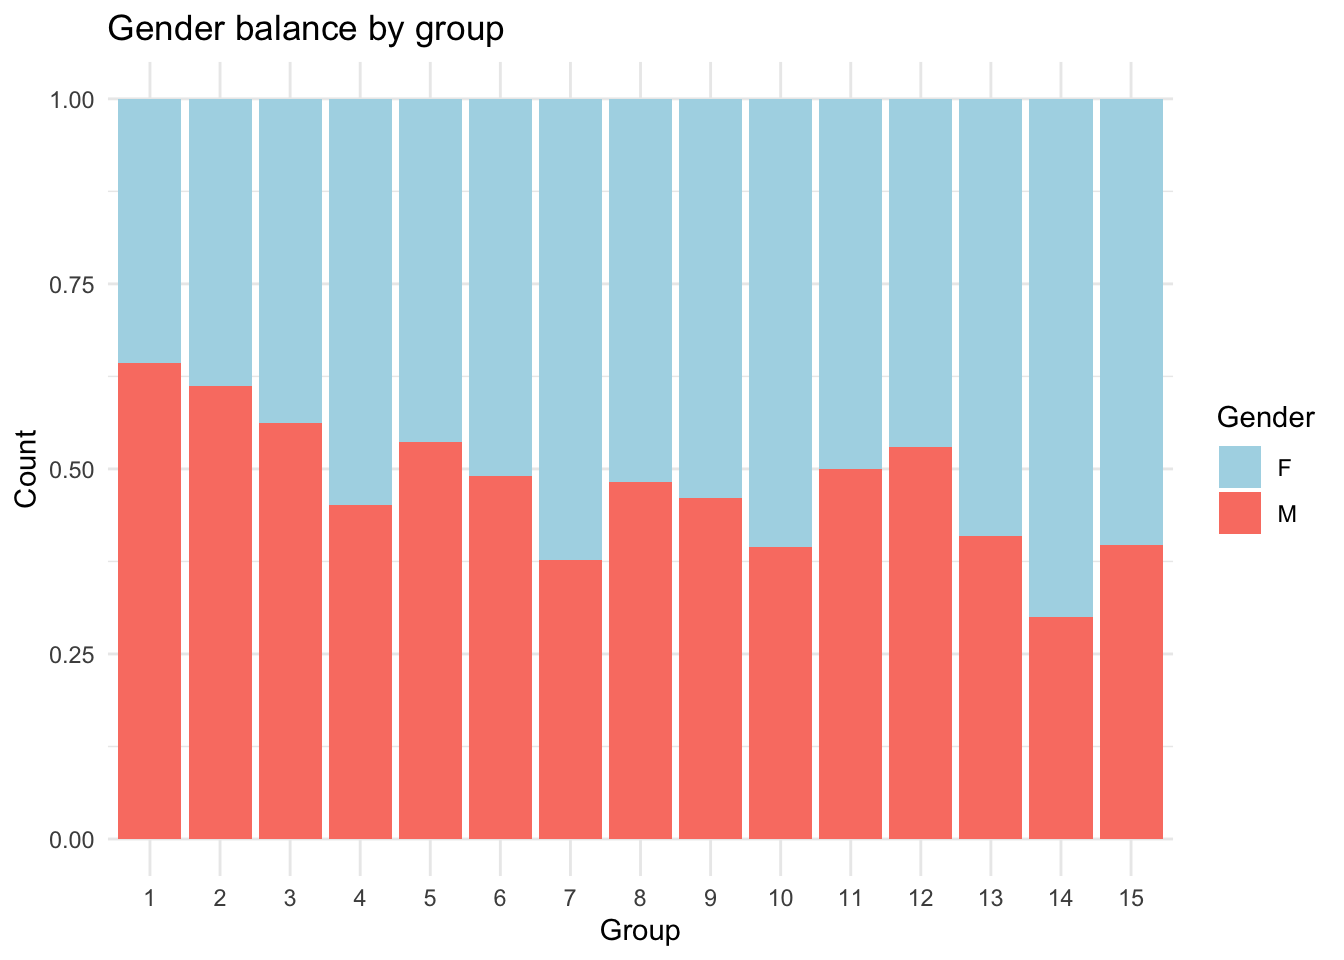
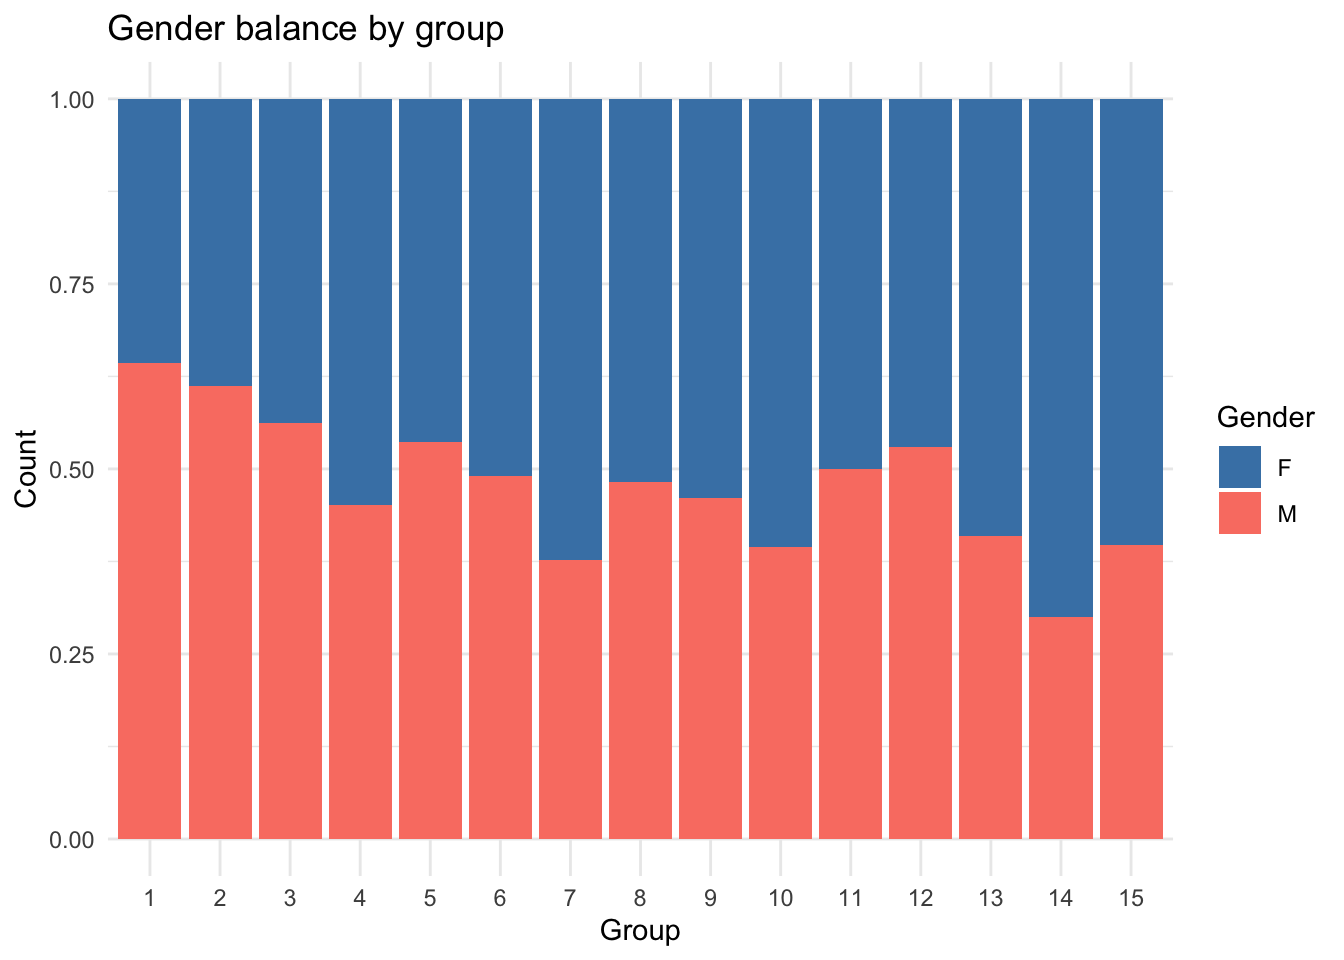
10:22

Changed region(s): [[0.0625, 0.0938, 0.875, 0.6562], [0.9062, 0.4375, 0.9375, 0.5312]]

diff --git a/mazere.html b/mazere.html
@@ -313,7 +313,7 @@ pre > code.sourceCode > span > a:first-child::before { text-decoration: underlin
 <span id="cb8-2"><a href="#cb8-2" aria-hidden="true" tabindex="-1"></a>  <span class="fu">count</span>(group, sex) <span class="sc">|&gt;</span></span>
 <span id="cb8-3"><a href="#cb8-3" aria-hidden="true" tabindex="-1"></a>  <span class="fu">ggplot</span>(<span class="fu">aes</span>(<span class="at">x =</span> group, <span class="at">y =</span> n, <span class="at">fill =</span> sex)) <span class="sc">+</span></span>
 <span id="cb8-4"><a href="#cb8-4" aria-hidden="true" tabindex="-1"></a>  <span class="fu">geom_col</span>(<span class="at">position =</span> <span class="st">"fill"</span>) <span class="sc">+</span></span>
-<span id="cb8-5"><a href="#cb8-5" aria-hidden="true" tabindex="-1"></a>  <span class="fu">scale_fill_manual</span>(<span class="at">values =</span> <span class="fu">c</span>(<span class="st">"lightblue"</span>, <span class="st">"salmon"</span>)) <span class="sc">+</span></span>
+<span id="cb8-5"><a href="#cb8-5" aria-hidden="true" tabindex="-1"></a>  <span class="fu">scale_fill_manual</span>(<span class="at">values =</span> <span class="fu">c</span>(<span class="st">"steelblue"</span>, <span class="st">"salmon"</span>)) <span class="sc">+</span></span>
 <span id="cb8-6"><a href="#cb8-6" aria-hidden="true" tabindex="-1"></a>  <span class="fu">labs</span>(<span class="at">title =</span> <span class="st">"Gender balance by group"</span>,</span>
 <span id="cb8-7"><a href="#cb8-7" aria-hidden="true" tabindex="-1"></a>    <span class="at">x =</span> <span class="st">"Group"</span>, <span class="at">y =</span> <span class="st">"Count"</span>, <span class="at">fill =</span> <span class="st">"Gender"</span>) <span class="sc">+</span></span>
 <span id="cb8-8"><a href="#cb8-8" aria-hidden="true" tabindex="-1"></a>  <span class="fu">theme_minimal</span>()</span></code></pre></div><button title="Copy to Clipboard" class="code-copy-button"><i class="bi"></i></button></div>
@@ -642,64 +642,64 @@ pre > code.sourceCode > span > a:first-child::before { text-decoration: underlin
 </thead>
 <tbody>
 <tr class="odd">
-<td style="text-align: right;">138</td>
-<td style="text-align: left;">13</td>
-<td style="text-align: left;">M</td>
-<td style="text-align: right;">62</td>
-</tr>
-<tr class="even">
-<td style="text-align: right;">105</td>
-<td style="text-align: left;">2</td>
-<td style="text-align: left;">M</td>
-<td style="text-align: right;">63</td>
-</tr>
-<tr class="odd">
-<td style="text-align: right;">328</td>
-<td style="text-align: left;">9</td>
-<td style="text-align: left;">F</td>
-<td style="text-align: right;">62</td>
-</tr>
-<tr class="even">
-<td style="text-align: right;">420</td>
-<td style="text-align: left;">10</td>
-<td style="text-align: left;">M</td>
-<td style="text-align: right;">63</td>
-</tr>
-<tr class="odd">
-<td style="text-align: right;">529</td>
-<td style="text-align: left;">11</td>
-<td style="text-align: left;">F</td>
-<td style="text-align: right;">62</td>
-</tr>
-<tr class="even">
-<td style="text-align: right;">44</td>
-<td style="text-align: left;">4</td>
-<td style="text-align: left;">F</td>
-<td style="text-align: right;">60</td>
-</tr>
-<tr class="odd">
-<td style="text-align: right;">283</td>
-<td style="text-align: left;">7</td>
-<td style="text-align: left;">F</td>
-<td style="text-align: right;">62</td>
-</tr>
-<tr class="even">
-<td style="text-align: right;">796</td>
-<td style="text-align: left;">15</td>
-<td style="text-align: left;">F</td>
-<td style="text-align: right;">63</td>
-</tr>
-<tr class="odd">
-<td style="text-align: right;">533</td>
-<td style="text-align: left;">13</td>
+<td style="text-align: right;">288</td>
+<td style="text-align: left;">5</td>
 <td style="text-align: left;">M</td>
 <td style="text-align: right;">61</td>
 </tr>
 <tr class="even">
-<td style="text-align: right;">349</td>
-<td style="text-align: left;">7</td>
+<td style="text-align: right;">654</td>
+<td style="text-align: left;">4</td>
+<td style="text-align: left;">F</td>
+<td style="text-align: right;">63</td>
+</tr>
+<tr class="odd">
+<td style="text-align: right;">679</td>
+<td style="text-align: left;">5</td>
+<td style="text-align: left;">F</td>
+<td style="text-align: right;">60</td>
+</tr>
+<tr class="even">
+<td style="text-align: right;">552</td>
+<td style="text-align: left;">15</td>
+<td style="text-align: left;">F</td>
+<td style="text-align: right;">64</td>
+</tr>
+<tr class="odd">
+<td style="text-align: right;">343</td>
+<td style="text-align: left;">8</td>
+<td style="text-align: left;">M</td>
+<td style="text-align: right;">62</td>
+</tr>
+<tr class="even">
+<td style="text-align: right;">125</td>
+<td style="text-align: left;">8</td>
+<td style="text-align: left;">M</td>
+<td style="text-align: right;">60</td>
+</tr>
+<tr class="odd">
+<td style="text-align: right;">548</td>
+<td style="text-align: left;">8</td>
+<td style="text-align: left;">M</td>
+<td style="text-align: right;">61</td>
+</tr>
+<tr class="even">
+<td style="text-align: right;">492</td>
+<td style="text-align: left;">1</td>
+<td style="text-align: left;">M</td>
+<td style="text-align: right;">63</td>
+</tr>
+<tr class="odd">
+<td style="text-align: right;">419</td>
+<td style="text-align: left;">10</td>
 <td style="text-align: left;">F</td>
 <td style="text-align: right;">62</td>
+</tr>
+<tr class="even">
+<td style="text-align: right;">786</td>
+<td style="text-align: left;">7</td>
+<td style="text-align: left;">F</td>
+<td style="text-align: right;">64</td>
 </tr>
 </tbody>
 </table>
@@ -791,67 +791,114 @@ pre > code.sourceCode > span > a:first-child::before { text-decoration: underlin
 </thead>
 <tbody>
 <tr class="odd">
-<td style="text-align: right;">762</td>
-<td style="text-align: left;">10</td>
-<td style="text-align: left;">M</td>
+<td style="text-align: right;">708</td>
+<td style="text-align: left;">11</td>
+<td style="text-align: left;">F</td>
 <td style="text-align: right;">10</td>
 </tr>
 <tr class="even">
-<td style="text-align: right;">426</td>
-<td style="text-align: left;">15</td>
+<td style="text-align: right;">402</td>
+<td style="text-align: left;">10</td>
 <td style="text-align: left;">M</td>
 <td style="text-align: right;">9</td>
 </tr>
 <tr class="odd">
-<td style="text-align: right;">38</td>
-<td style="text-align: left;">8</td>
-<td style="text-align: left;">F</td>
-<td style="text-align: right;">10</td>
-</tr>
-<tr class="even">
-<td style="text-align: right;">315</td>
-<td style="text-align: left;">3</td>
-<td style="text-align: left;">F</td>
-<td style="text-align: right;">8</td>
-</tr>
-<tr class="odd">
-<td style="text-align: right;">713</td>
-<td style="text-align: left;">12</td>
-<td style="text-align: left;">F</td>
-<td style="text-align: right;">10</td>
-</tr>
-<tr class="even">
-<td style="text-align: right;">774</td>
+<td style="text-align: right;">336</td>
 <td style="text-align: left;">1</td>
+<td style="text-align: left;">F</td>
+<td style="text-align: right;">10</td>
+</tr>
+<tr class="even">
+<td style="text-align: right;">702</td>
+<td style="text-align: left;">2</td>
+<td style="text-align: left;">M</td>
+<td style="text-align: right;">9</td>
+</tr>
+<tr class="odd">
+<td style="text-align: right;">161</td>
+<td style="text-align: left;">15</td>
+<td style="text-align: left;">F</td>
+<td style="text-align: right;">10</td>
+</tr>
+<tr class="even">
+<td style="text-align: right;">524</td>
+<td style="text-align: left;">2</td>
 <td style="text-align: left;">M</td>
 <td style="text-align: right;">10</td>
 </tr>
 <tr class="odd">
-<td style="text-align: right;">543</td>
-<td style="text-align: left;">12</td>
-<td style="text-align: left;">M</td>
-<td style="text-align: right;">10</td>
+<td style="text-align: right;">842</td>
+<td style="text-align: left;">9</td>
+<td style="text-align: left;">F</td>
+<td style="text-align: right;">9</td>
 </tr>
 <tr class="even">
-<td style="text-align: right;">822</td>
-<td style="text-align: left;">4</td>
-<td style="text-align: left;">M</td>
+<td style="text-align: right;">163</td>
+<td style="text-align: left;">9</td>
+<td style="text-align: left;">F</td>
 <td style="text-align: right;">10</td>
 </tr>
 <tr class="odd">
-<td style="text-align: right;">466</td>
-<td style="text-align: left;">7</td>
-<td style="text-align: left;">M</td>
+<td style="text-align: right;">432</td>
+<td style="text-align: left;">6</td>
+<td style="text-align: left;">F</td>
 <td style="text-align: right;">10</td>
 </tr>
 <tr class="even">
-<td style="text-align: right;">307</td>
-<td style="text-align: left;">12</td>
+<td style="text-align: right;">11</td>
+<td style="text-align: left;">2</td>
 <td style="text-align: left;">F</td>
 <td style="text-align: right;">10</td>
 </tr>
 </tbody>
 </table>
+</div>
+</div>
+<p><strong>Question 16</strong></p>
+<p>Compute from the previous data frame the distribution of the number of grades, that is for each number of grades (e.g.&nbsp;10) the number of students who have exactly this number of grades in <em>Storytelling and Oral Tradition</em>. Represent graphically the results.</p>
+<div class="cell">
+<details class="code-fold">
+<summary>Code</summary>
+<div class="code-copy-outer-scaffold"><div class="sourceCode cell-code" id="cb20"><pre class="sourceCode r code-with-copy"><code class="sourceCode r"><span id="cb20-1"><a href="#cb20-1" aria-hidden="true" tabindex="-1"></a>storytelling <span class="sc">|&gt;</span></span>
+<span id="cb20-2"><a href="#cb20-2" aria-hidden="true" tabindex="-1"></a>  <span class="fu">count</span>(n_grades) <span class="sc">|&gt;</span></span>
+<span id="cb20-3"><a href="#cb20-3" aria-hidden="true" tabindex="-1"></a>  <span class="fu">ggplot</span>(<span class="fu">aes</span>(<span class="at">x =</span> n_grades, <span class="at">y =</span> n)) <span class="sc">+</span></span>
+<span id="cb20-4"><a href="#cb20-4" aria-hidden="true" tabindex="-1"></a>  <span class="fu">geom_col</span>(<span class="at">fill =</span> <span class="st">"steelblue"</span>) <span class="sc">+</span></span>
+<span id="cb20-5"><a href="#cb20-5" aria-hidden="true" tabindex="-1"></a>  <span class="fu">labs</span>(</span>
+<span id="cb20-6"><a href="#cb20-6" aria-hidden="true" tabindex="-1"></a>    <span class="at">title =</span> <span class="st">"Distribution of number of Storytelling &amp; Oral Tradition grades"</span>,</span>
+<span id="cb20-7"><a href="#cb20-7" aria-hidden="true" tabindex="-1"></a>    <span class="at">x =</span> <span class="st">"Number of grades"</span>,</span>
+<span id="cb20-8"><a href="#cb20-8" aria-hidden="true" tabindex="-1"></a>    <span class="at">y =</span> <span class="st">"Number of students"</span>) <span class="sc">+</span></span>
+<span id="cb20-9"><a href="#cb20-9" aria-hidden="true" tabindex="-1"></a>  <span class="fu">theme_minimal</span>()</span></code></pre></div><button title="Copy to Clipboard" class="code-copy-button"><i class="bi"></i></button></div>
+</details>
+<div class="cell-output-display">
+<div>
+<figure class="figure">
+<p><img src="mazere_files/figure-html/unnamed-chunk-17-1.png" class="img-fluid figure-img" width="672"></p>
+</figure>
+</div>
+</div>
+</div>
+<p><strong>Question 17</strong></p>
+<p>Using a graphical representation to study whether the number of grades per student in Storytelling and Oral Tradition depends on the group.</p>
+<div class="cell">
+<details class="code-fold">
+<summary>Code</summary>
+<div class="code-copy-outer-scaffold"><div class="sourceCode cell-code" id="cb21"><pre class="sourceCode r code-with-copy"><code class="sourceCode r"><span id="cb21-1"><a href="#cb21-1" aria-hidden="true" tabindex="-1"></a>storytelling <span class="sc">|&gt;</span></span>
+<span id="cb21-2"><a href="#cb21-2" aria-hidden="true" tabindex="-1"></a>  <span class="fu">group_by</span>(group) <span class="sc">|&gt;</span></span>
+<span id="cb21-3"><a href="#cb21-3" aria-hidden="true" tabindex="-1"></a>  <span class="fu">summarise</span>(<span class="at">avg_grades =</span> <span class="fu">mean</span>(n_grades)) <span class="sc">|&gt;</span></span>
+<span id="cb21-4"><a href="#cb21-4" aria-hidden="true" tabindex="-1"></a>  <span class="fu">ggplot</span>(<span class="fu">aes</span>(<span class="at">x =</span> group, <span class="at">y =</span> avg_grades)) <span class="sc">+</span></span>
+<span id="cb21-5"><a href="#cb21-5" aria-hidden="true" tabindex="-1"></a>  <span class="fu">geom_col</span>(<span class="at">fill =</span> <span class="st">"steelblue"</span>) <span class="sc">+</span></span>
+<span id="cb21-6"><a href="#cb21-6" aria-hidden="true" tabindex="-1"></a>  <span class="fu">labs</span>(</span>
+<span id="cb21-7"><a href="#cb21-7" aria-hidden="true" tabindex="-1"></a>    <span class="at">title =</span> <span class="st">"Average number of grades per group in Storytelling and Oral Tradition"</span>,</span>
+<span id="cb21-8"><a href="#cb21-8" aria-hidden="true" tabindex="-1"></a>    <span class="at">x =</span> <span class="st">"Group"</span>,</span>
+<span id="cb21-9"><a href="#cb21-9" aria-hidden="true" tabindex="-1"></a>    <span class="at">y =</span> <span class="st">"Average number of grades"</span>) <span class="sc">+</span></span>
+<span id="cb21-10"><a href="#cb21-10" aria-hidden="true" tabindex="-1"></a>  <span class="fu">theme_minimal</span>()</span></code></pre></div><button title="Copy to Clipboard" class="code-copy-button"><i class="bi"></i></button></div>
+</details>
+<div class="cell-output-display">
+<div>
+<figure class="figure">
+<p><img src="mazere_files/figure-html/unnamed-chunk-18-1.png" class="img-fluid figure-img" width="672"></p>
+</figure>
+</div>
 </div>
 </div>
 </section>
